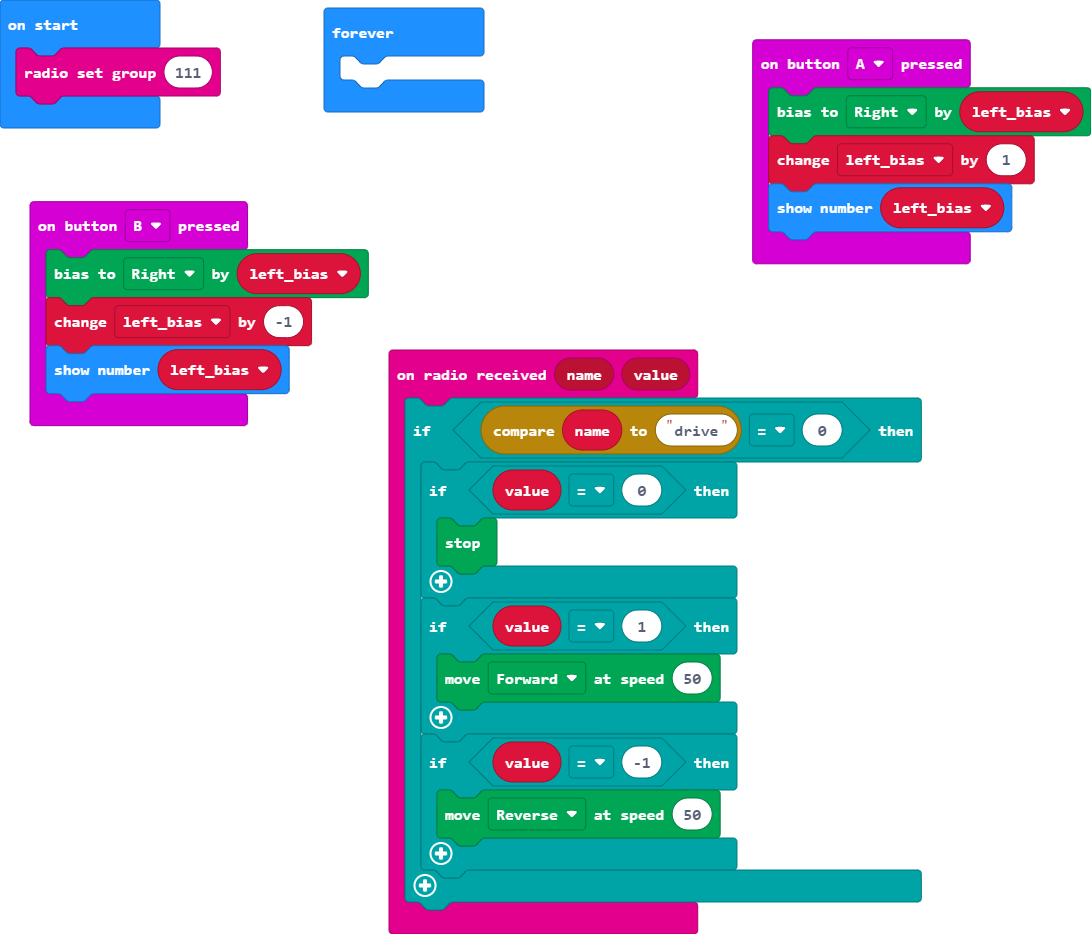
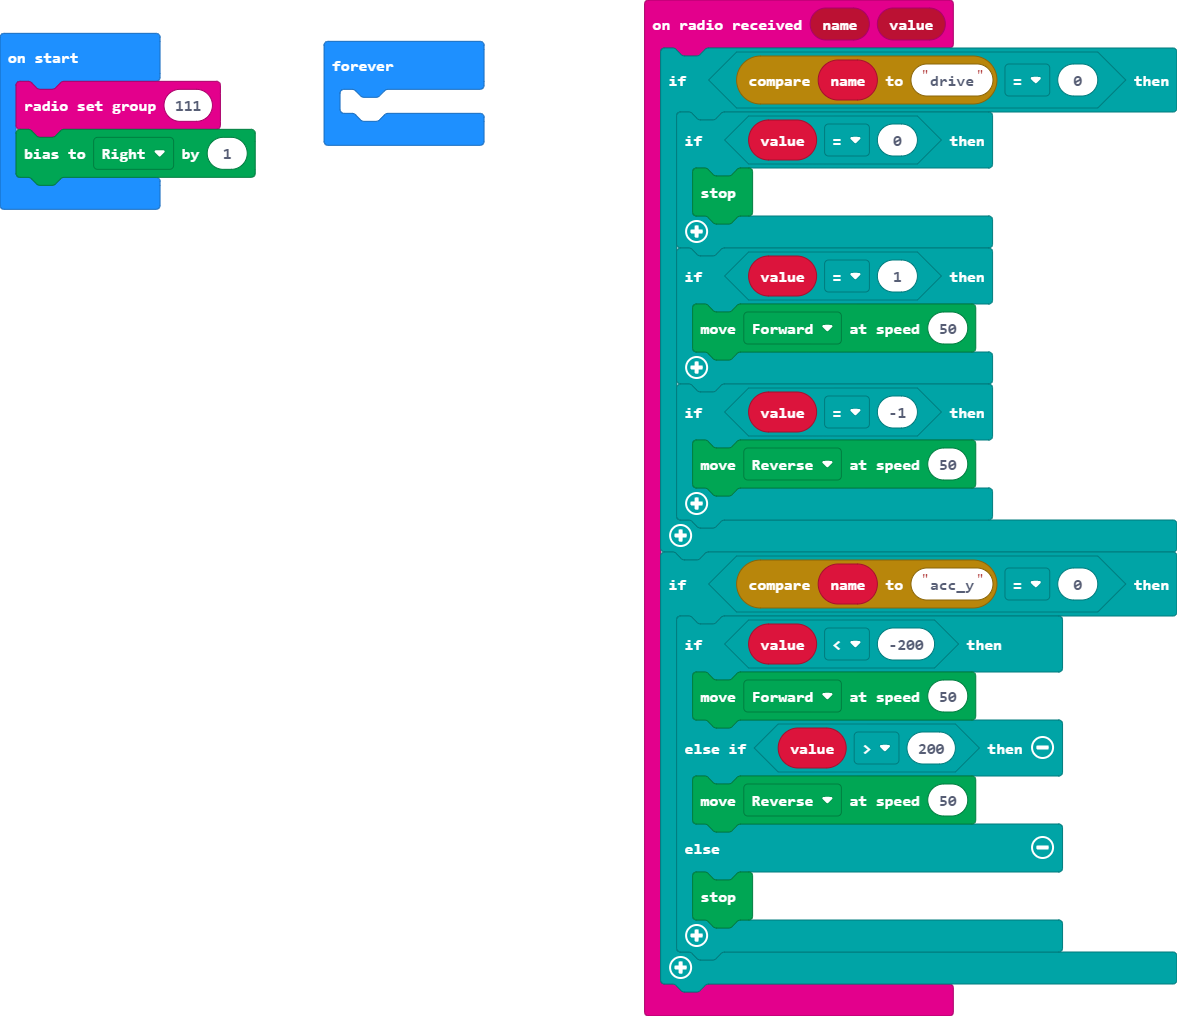
Update main.blocks, main.ts

diff --git a/main.ts b/main.ts
@@ -1,13 +1,3 @@
-input.onButtonPressed(Button.A, function () {
-    Kitronik_Move_Motor.motorBalance(Kitronik_Move_Motor.SpinDirections.Right, left_bias)
-    left_bias += 1
-    basic.showNumber(left_bias)
-})
-input.onButtonPressed(Button.B, function () {
-    Kitronik_Move_Motor.motorBalance(Kitronik_Move_Motor.SpinDirections.Right, left_bias)
-    left_bias += -1
-    basic.showNumber(left_bias)
-})
 radio.onReceivedValue(function (name, value) {
     if (name.compare("drive") == 0) {
         if (value == 0) {
@@ -20,9 +10,18 @@ radio.onReceivedValue(function (name, value) {
             Kitronik_Move_Motor.move(Kitronik_Move_Motor.DriveDirections.Reverse, 50)
         }
     }
+    if (name.compare("acc_y") == 0) {
+        if (value < -200) {
+            Kitronik_Move_Motor.move(Kitronik_Move_Motor.DriveDirections.Forward, 50)
+        } else if (value > 200) {
+            Kitronik_Move_Motor.move(Kitronik_Move_Motor.DriveDirections.Reverse, 50)
+        } else {
+            Kitronik_Move_Motor.stop()
+        }
+    }
 })
-let left_bias = 0
 radio.setGroup(111)
+Kitronik_Move_Motor.motorBalance(Kitronik_Move_Motor.SpinDirections.Right, 1)
 basic.forever(function () {
 	
 })
